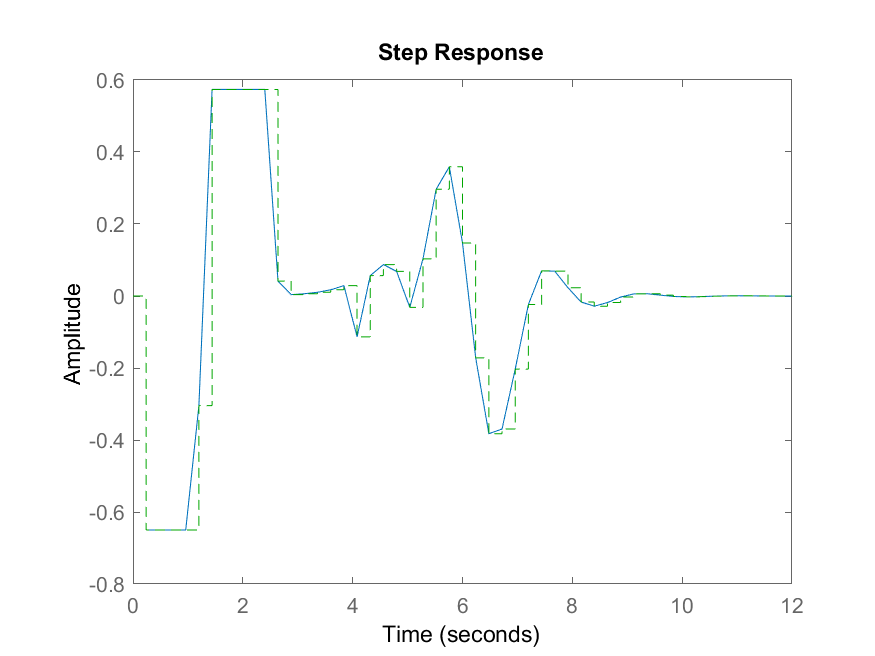
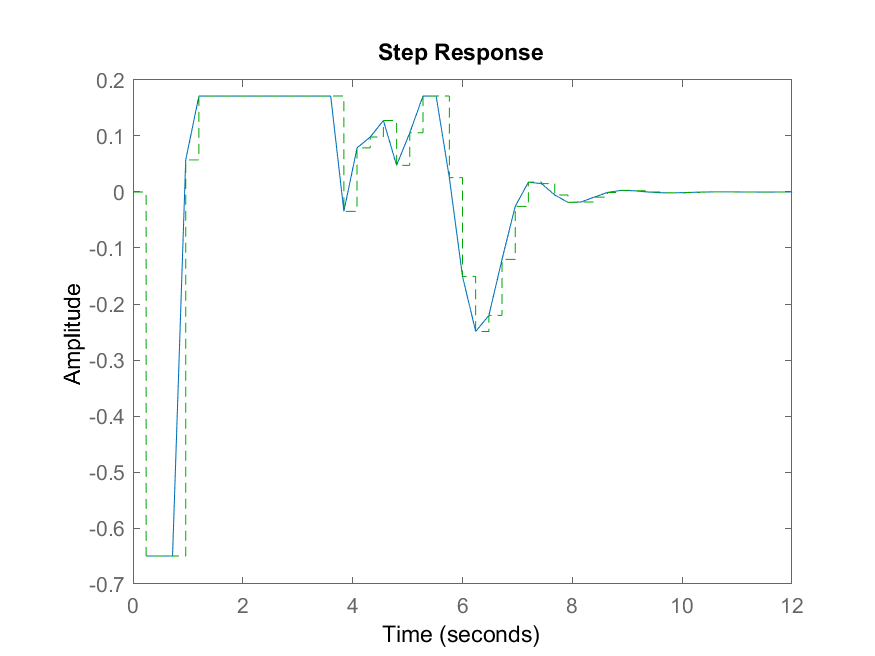
fixed :(

diff --git a/lab3/iop_control_design_integrator.m b/lab3/iop_control_design_integrator.m
@@ -56,12 +56,13 @@ stablePlantPoles = [stableRealPlantPoles stableComplexPlantPoles];
 qs = [stablePlantPoles unstablePlantPoles];
 
 % coefficents go in order of the poles
-cs = [r(1)]
-
+%cs = [r(1)]
+cs = [k_2*k_3*0.5*T^2]
 if double_integrator_flag
     % coefficients include both c_n for 1/(z-1) and c_(n+1) for 1/(z-1)^2 for
     %       the pole at z=1
-    c_double_integrator = [r(2)];
+    %c_double_integrator = [r(2)];
+    c_double_integrator = [k_2*k_3*T^2]
     cs = [cs c_double_integrator];
 end     
 
@@ -402,8 +403,8 @@ D = recoverD(W, X, T, 0.00001);
 %
 
 % 3. Calculate T_ry and T_ru using the feedback formulas:
-T_ry = feedback(G*D, 1);
-T_ru = feedback(D, G); %these are not transfer functions they're zpg 
+T_ry = feedback(G_orig*D, 1);
+T_ru = feedback(D, G_orig); %these are not transfer functions they're zpg 
 
 %By default, step applies an input signal that changes from 0 to 1 at t = 0. 
 %To customize the amplitude and bias, use RespConfig. 

diff --git a/lab3/table.tex b/lab3/table.tex
@@ -25,6 +25,6 @@ Attempt_21 & 0.65 & 0.44 & 7 & 2 & 30 & 4.1772e-05 & 0.64986 & 44.0315 & 6.72 & 
 Attempt_22 & 0.65 & 0.44 & 7 & 2 & 28 & 8.8333e-06 & 0.65 & 44.0007 & 6.72 & 4.0365 \\ 
 Attempt_23 & 0.65 & 0.44 & 7 & 2 & 24 & 1.0821e-05 & 0.64999 & 44.0008 & 6.72 & 4.6767 \\ 
 Attempt_24 & 0.65 & 0.44 & 7 & 2 & 22 & 3.125701247605581e+22 & 0.64775 & NaN & NaN & 5.2408 \\ 
-Attempt_25 & 0.65 & 0.44 & 7 & 1 & 24 & 1.912e-05 & 0.57376 & 44.0001 & 6.72 & 4.6601 \\ 
+Attempt_25 & 0.65 & 0.44 & 7 & 1 & 24 & -3.5288e-06 & 0.17134 & 44 & 6.24 & 2.7938 \\ 
 \hline 
 \end{tabular}
